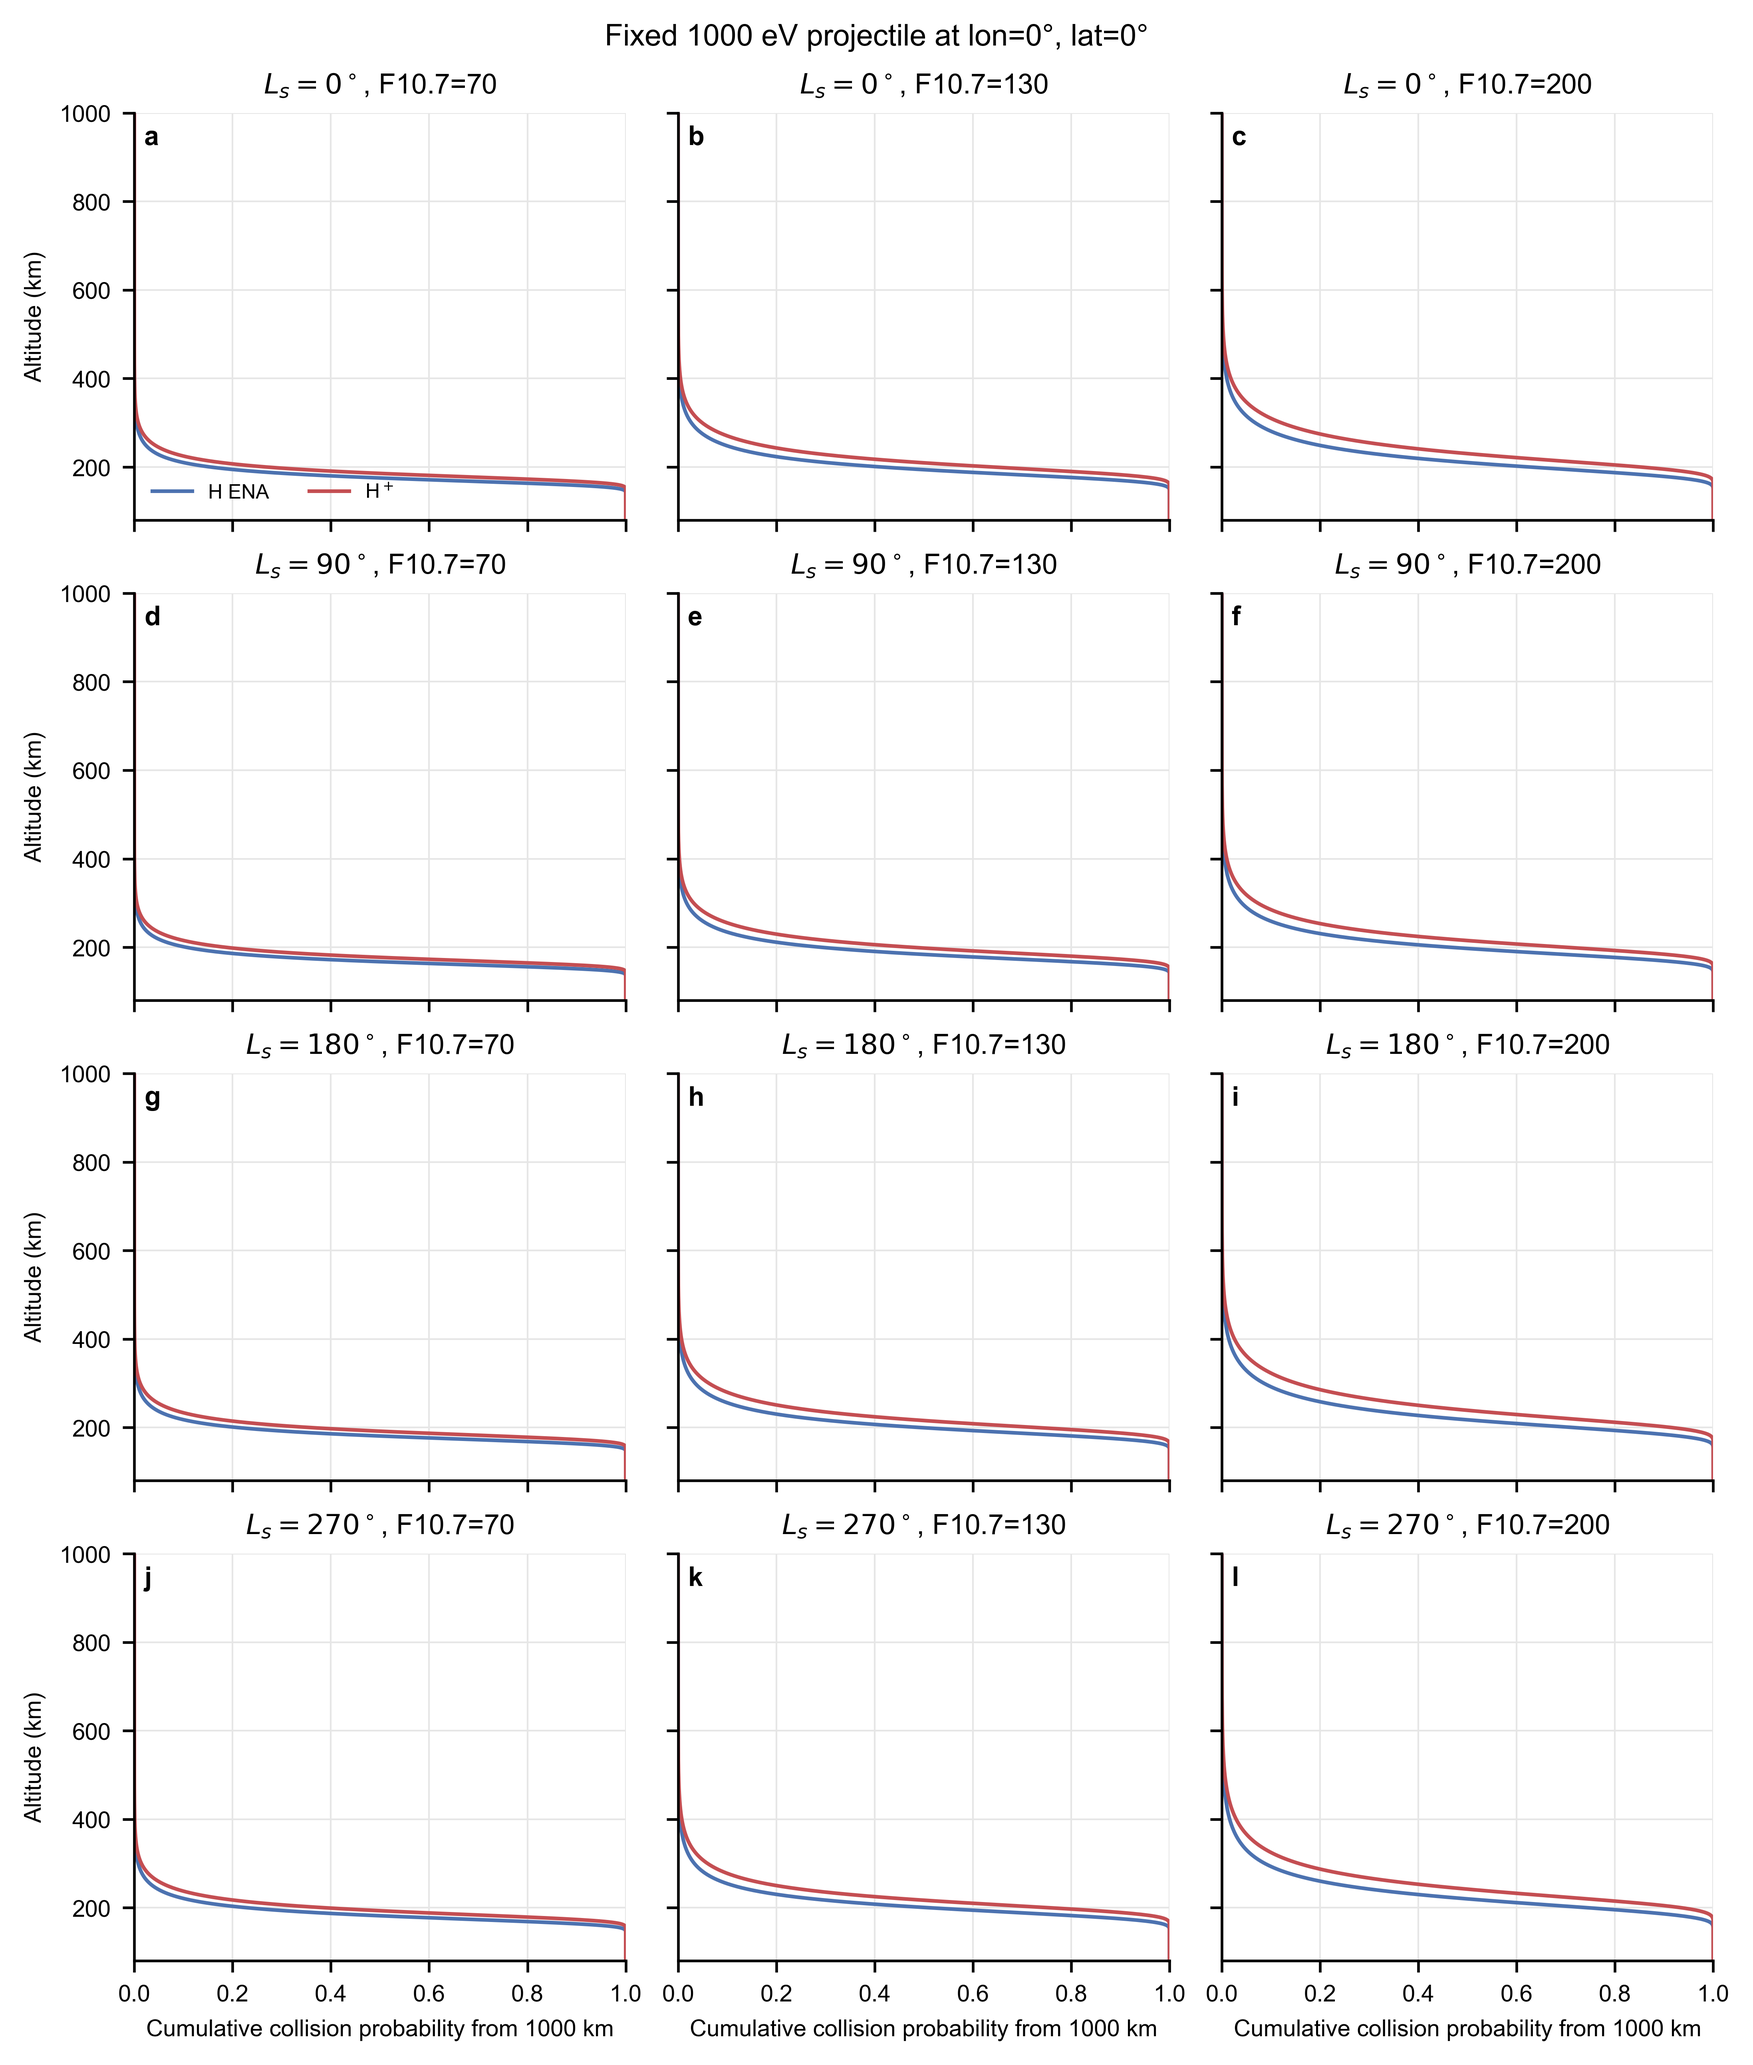
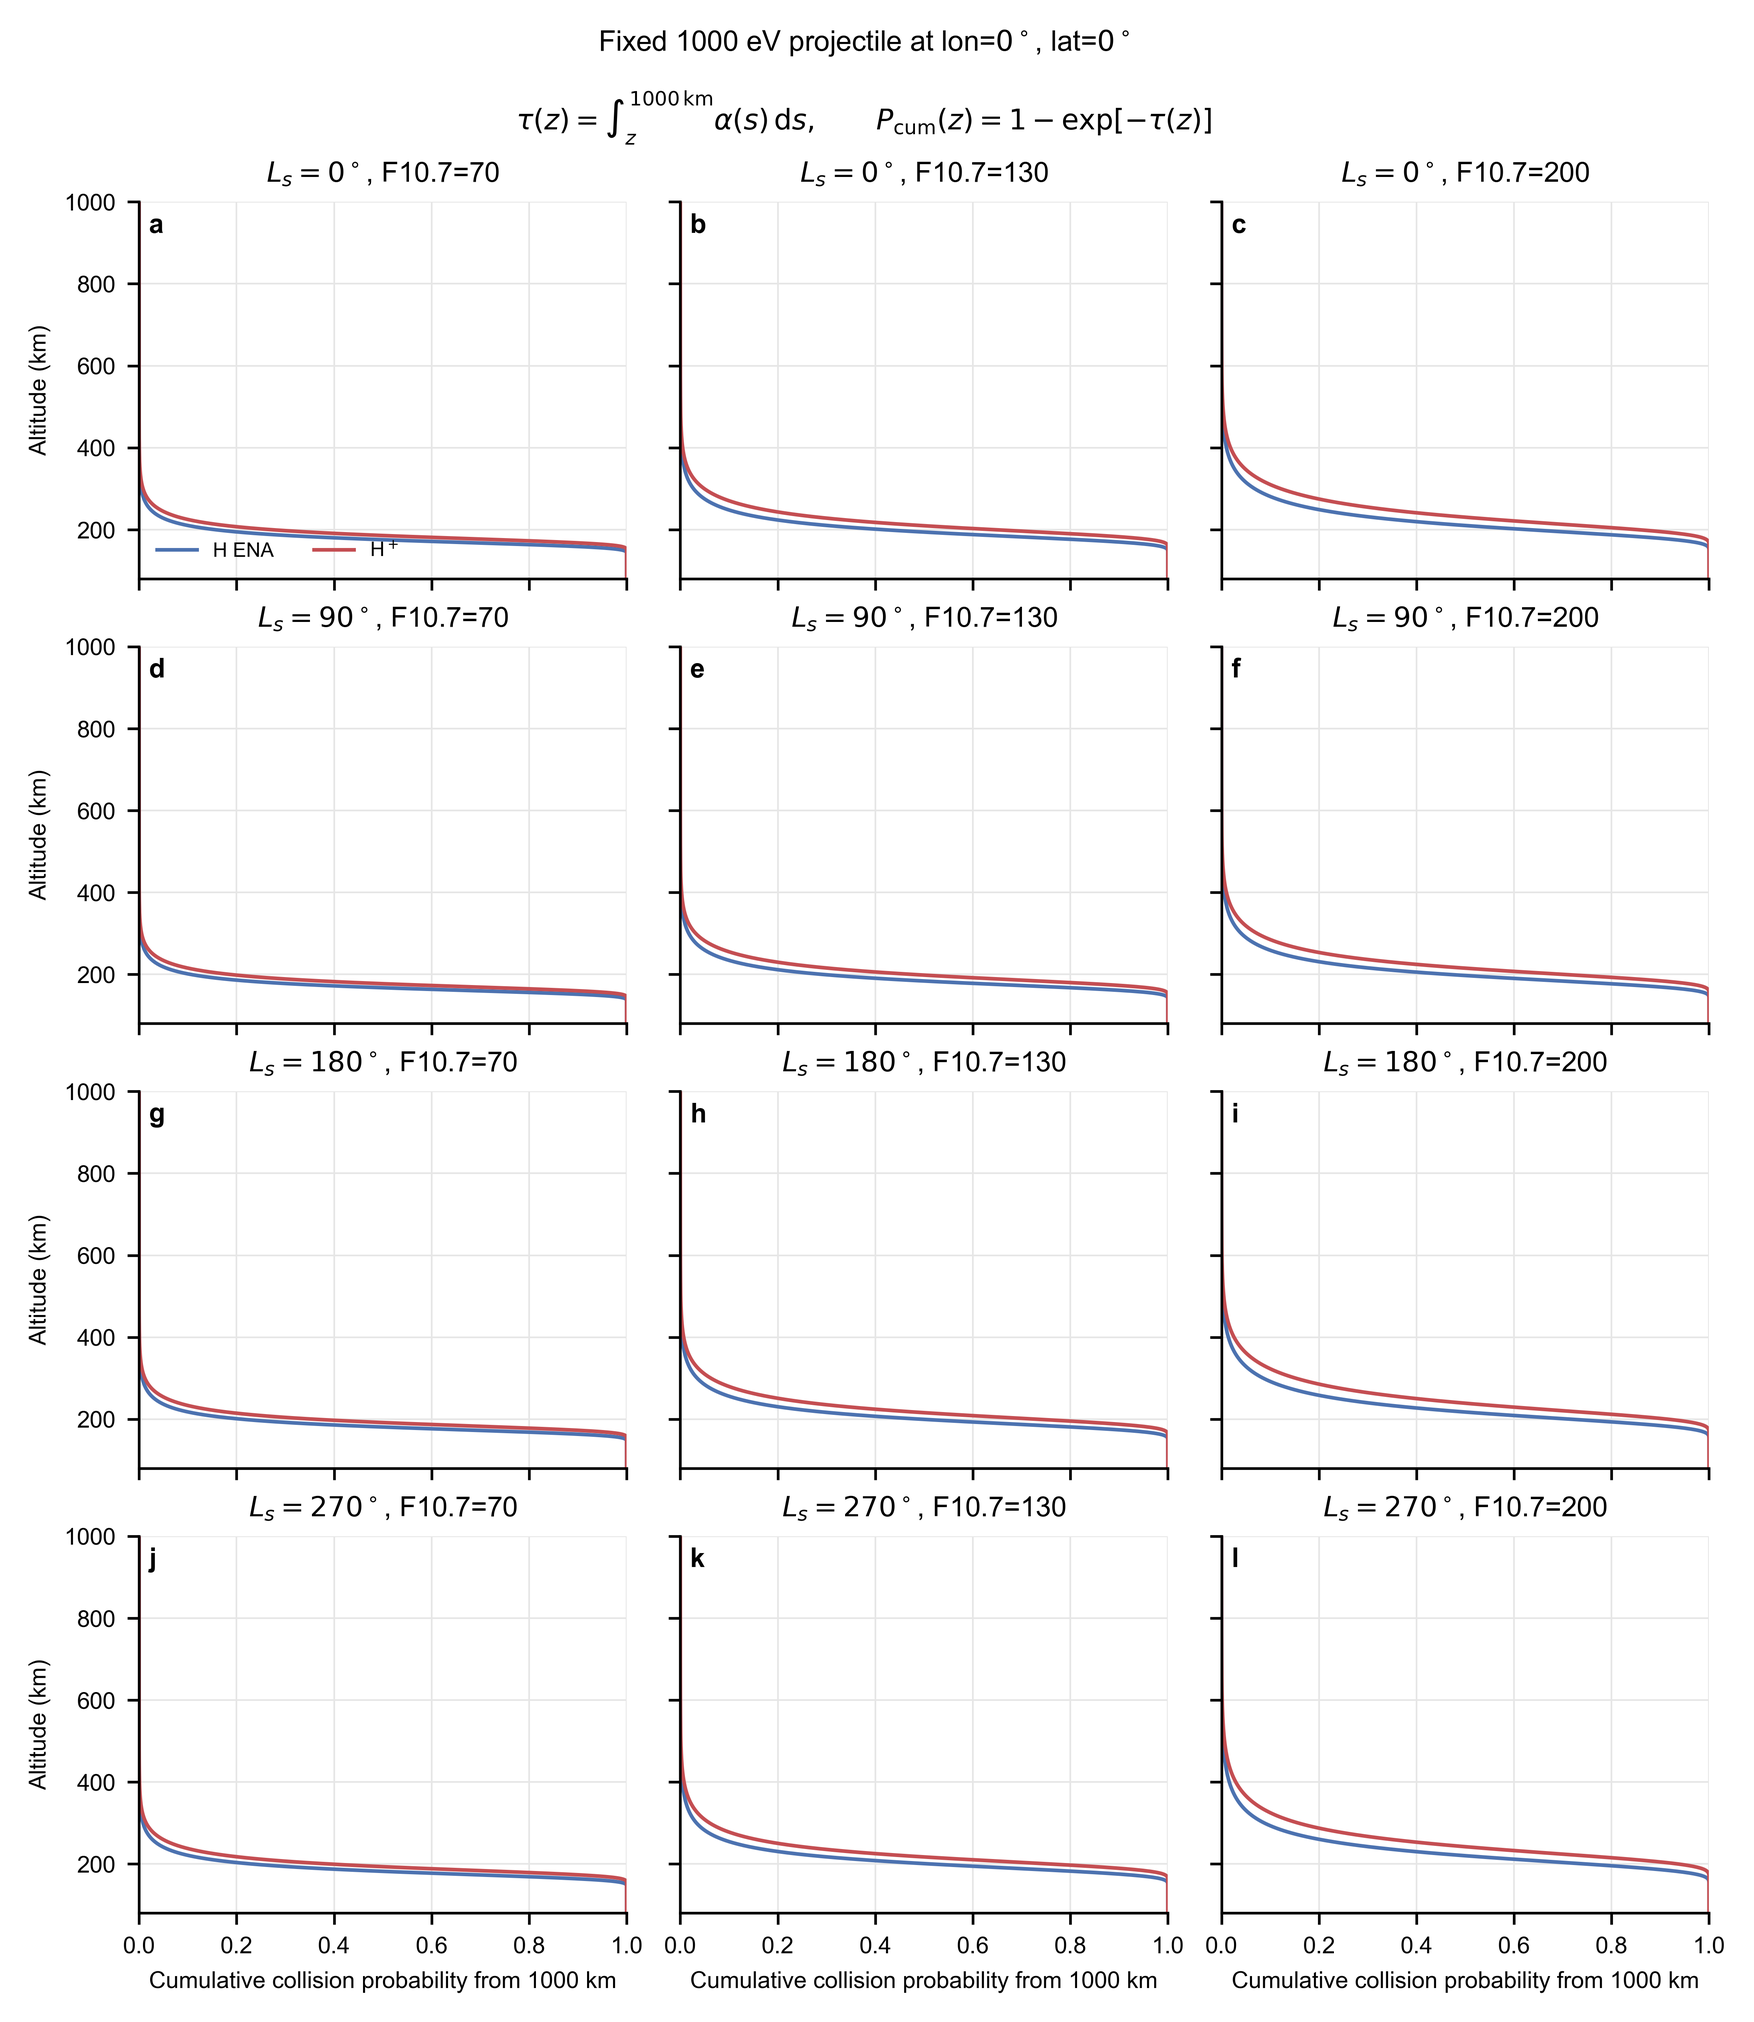
Annotate collision probability figures with equations

diff --git a/examples/plot_1000ev_collision_probability.py b/examples/plot_1000ev_collision_probability.py
@@ -187,7 +187,10 @@ def plot_grid(values_by_case: dict, cumulative: bool, output: Path) -> None:
     altitude = np.arange(80.0, 1001.0, 1.0)
     fig, axes = plt.subplots(
         4, 3, figsize=(7.2, 8.5), sharex=True, sharey=True,
-        constrained_layout=True,
+    )
+    fig.subplots_adjust(
+        left=0.08, right=0.99, bottom=0.06, top=0.90,
+        wspace=0.11, hspace=0.18,
     )
     for row, ls in enumerate(LS_VALUES):
         for col, f107 in enumerate(F107_VALUES):
@@ -220,12 +223,29 @@ def plot_grid(values_by_case: dict, cumulative: bool, output: Path) -> None:
     for axis in axes[:, 0]:
         axis.set_ylabel("Altitude (km)")
     axes[0, 0].legend(ncol=2, fontsize=6, loc="lower left")
+    if cumulative:
+        formula = (
+            r"$\tau(z)=\int_z^{1000\,\mathrm{km}}\alpha(s)\,\mathrm{d}s,"
+            r"\qquad P_{\mathrm{cum}}(z)=1-\exp[-\tau(z)]$"
+        )
+    else:
+        formula = (
+            r"$\alpha(z,E)=\sum_j n_j(z)\sum_k\sigma_{j,k}(E),"
+            r"\qquad P_{\mathrm{local}}(z)=1-\exp[-\alpha(z,E)\Delta s],"
+            r"\quad \Delta s=1\,\mathrm{km}$"
+        )
     fig.suptitle(
-        f"Fixed {ENERGY_EV:.0f} eV projectile at lon=0°, lat=0°",
-        fontsize=9,
+        rf"Fixed {ENERGY_EV:.0f} eV projectile at "
+        r"lon=$0^\circ$, lat=$0^\circ$",
+        fontsize=8.5,
+        y=0.985,
+    )
+    fig.text(
+        0.5, 0.955, formula,
+        ha="center", va="top", fontsize=8.5,
     )
     output.parent.mkdir(parents=True, exist_ok=True)
-    fig.savefig(output, dpi=600, bbox_inches="tight")
+    fig.savefig(output, dpi=600, bbox_inches="tight", pad_inches=0.12)
     plt.close(fig)
     print(f"output={output.resolve()}")
 
